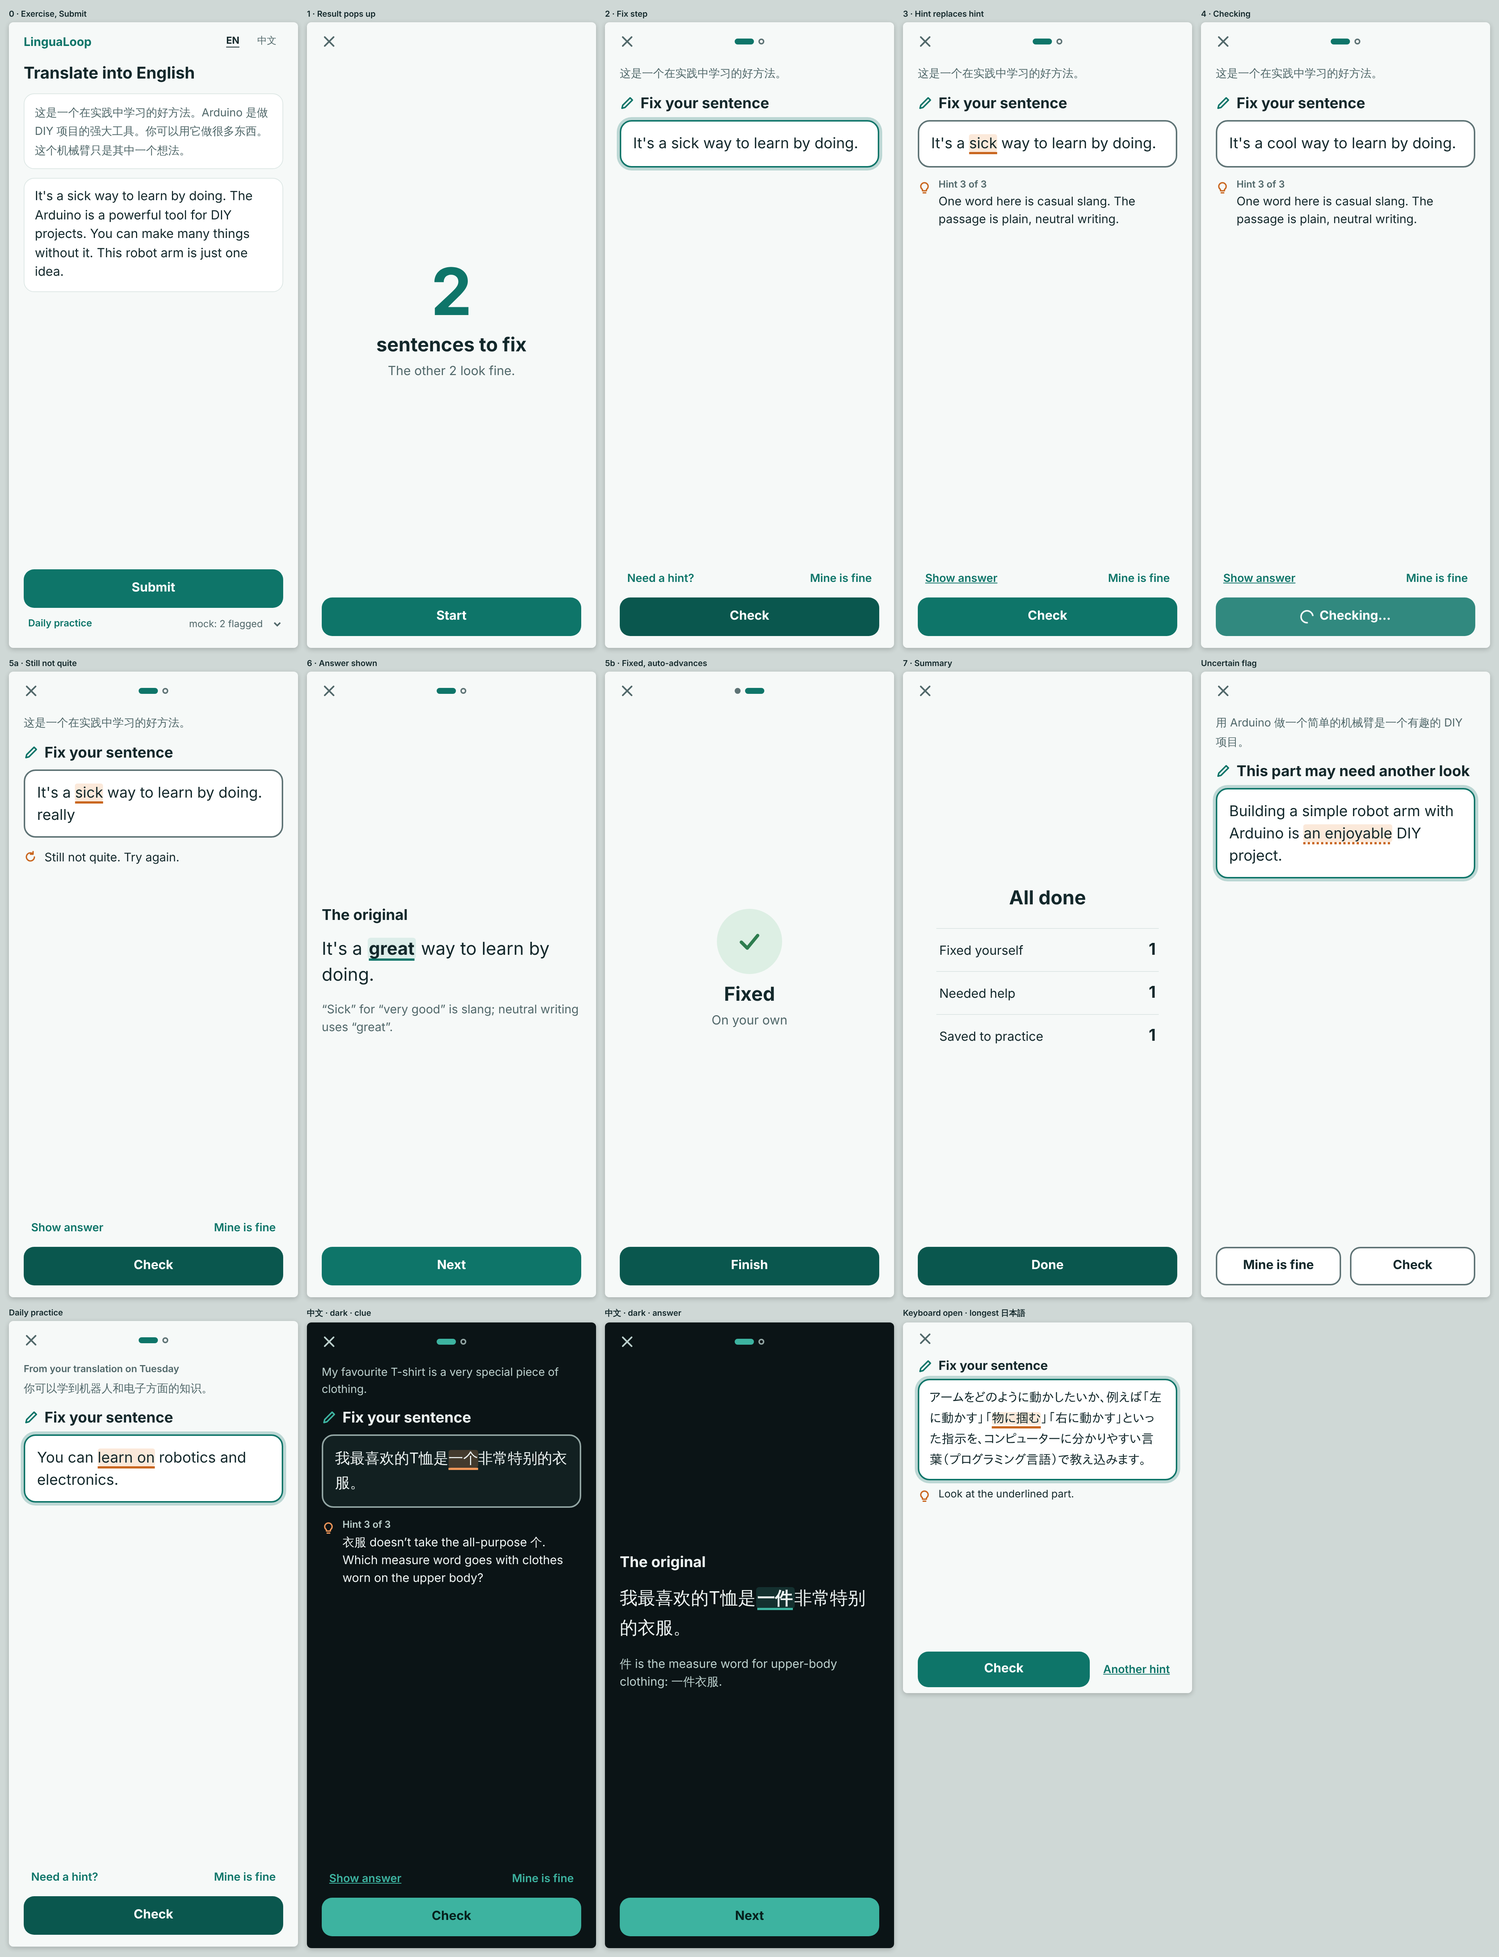
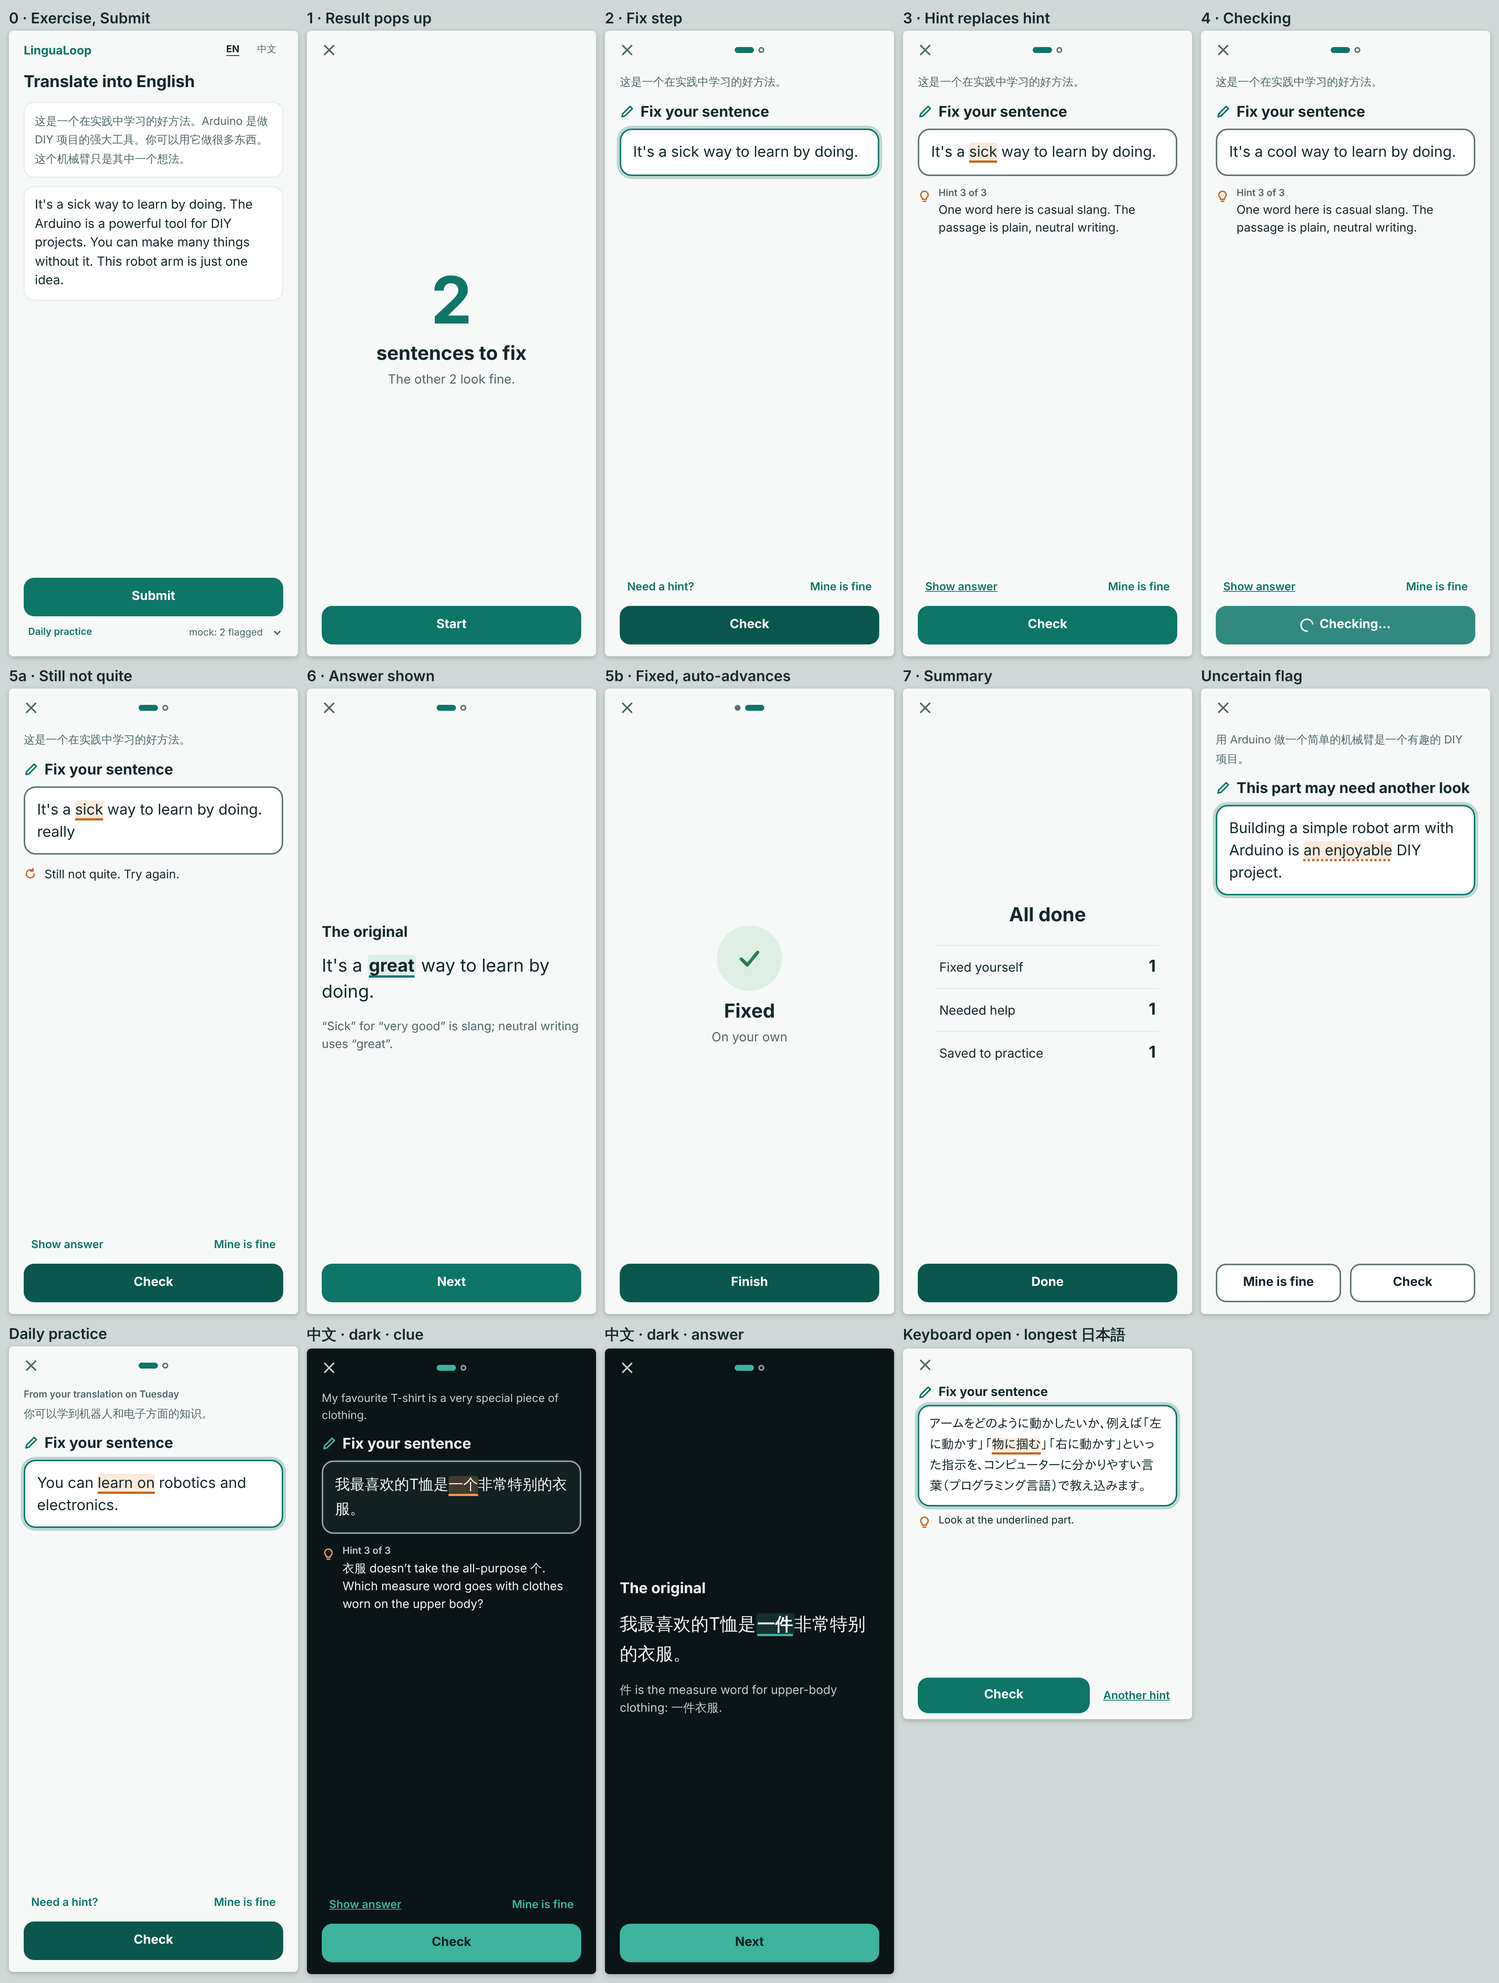
Rebuild DT feedback mockup as app-style one-step-per-screen flow
Claude-Session: https://claude.ai/code/session_01Js56QFCaRqabTK3ofNnuDs

diff --git a/wiki/design/dt-feedback/option-2-guided-self-repair/SPEC.md b/wiki/design/dt-feedback/option-2-guided-self-repair/SPEC.md
@@ -11,16 +11,149 @@ open_questions:
   - "OPEN: Daily-practice intervals, caps and the 'resolved' rule (section 8) are design defaults, not tuned values."
   - "OPEN: Which database size limit applies, and where grading results are stored at all (open since September)."
   - "OPEN: Thresholds (confidence bands, repair cap of 3, attempt cap of 4, credit weights) are design defaults, not tuned values."
+  - "OPEN (Revision 2): zh and ja interface strings for the app-style flow are not written; real-device and keyboard behaviour is untested."
   - "OPEN: Hint templates need writing and native review for ~20 types x 3 L2s x 3 L1s."
 ---
 
 # Option 2 — Guided Self-Repair
 
 One of three competing options for presenting and tracking Dual Translation (DT) feedback.
-Companion files: [`mockup.html`](./mockup.html) (working simulation), `mobile.png`, `desktop.png`
-(revision step), `mobile-daily.png`, `desktop-daily.png` (daily practice).
+Companion files (Revision 2): [`mockup.html`](./mockup.html) (working simulation), `mobile.png` and
+`desktop.png` (contact sheets), `steps/` (one PNG per step, en flow), [`verify.cjs`](./verify.cjs)
+(the no-scroll test). Superseded, kept for reference: `mockup-v1.html`, `mobile-v1.png`,
+`desktop-v1.png`, `mobile-daily-v1.png`, `desktop-daily-v1.png`.
 Context: [[features/dual-translation]], [[decisions/ADR-031-dt-taxonomy-v6-merge]],
 [[evaluations/jev-dt-tuning-2026-09-27]].
+
+## Revision 2 — 2026-11-14 (app-style flow)
+
+**Why.** The owner rejected the first mockup: "the mockup is much too busy - imagine it needs to be
+designed like an app. it just pops up, you get through one part and it opens the next - no scrolling."
+Earlier: "it just needs to be clearer what the input box is." The first mockup put the whole passage
+on one long page (4,152 px tall at 390 px wide for two flagged sentences) with every card, hint bar,
+chip and counter visible at once.
+
+This revision changes the **presentation only**. The ladder, the grader contract, the credit model and
+the daily-practice rules (§1.2 outcomes, §2, §5, §8.1–8.4) are unchanged. Where an older section
+describes layout, it is marked **Superseded by Revision 2**.
+
+### R2.1 Interaction model
+
+1. **It pops up.** After Submit, feedback opens as a modal sheet over the exercise: full screen on a
+   phone, a centred 420 px card on wider screens with the exercise dimmed behind it.
+2. **One step per screen.** Each screen has one sentence, one problem, one input and one primary
+   button. The sheet has three fixed zones: header (close button, progress dots), content, and a
+   bottom action area in thumb reach.
+3. **No scrolling, ever** (acceptance criterion, R2.5).
+4. **It advances by itself.** A successful check shows a short success moment and moves to the next
+   sentence after about 1.6 s; a "Next" button is there for people who do not want to wait, and it is
+   the only way forward when reduced motion is requested.
+5. **Hints replace each other.** There is one hint slot under the field. A new hint, or a "still not
+   quite" message, takes the place of what was there.
+6. Steps change with a short slide and fade (off under `prefers-reduced-motion`).
+
+### R2.2 Steps
+
+| # | Screen | What is on it | Primary action | Quiet actions |
+|---|---|---|---|---|
+| 0 | Exercise (existing page) | Prompt, the learner's translation | Submit (shows "Checking…") | — |
+| 1a | Result | A large number and "sentences to fix"; one line "The other N look fine." | Start | — |
+| 1b | Result, clean | Tick, "No issues found", one line | Done | — |
+| 2 | Fix | The L1 prompt sentence (quiet, two lines at most); the label "Fix your sentence"; the field, pre-filled with the learner's sentence | Check | "Need a hint?", "Mine is fine" |
+| 3 | Fix + hint | Same screen. Hint 1 underlines the grader's span inside the field ("Look at the underlined part."); hint 2 names the type; hint 3 is the clue. Each replaces the last. The quiet button reads "Need a hint?" → "Another hint" → "Show answer". | Check | as above |
+| 4 | Checking | Same screen; the button shows a spinner and "Checking…", the field is read-only, a second press is ignored (1–2 s) | — | — |
+| 5a | Still not quite | Same screen; the slot says "Still not quite. Try again, or take a hint."; the field shakes once. Unchanged text: "That's the same sentence. Change something first." (no grader call) | Check | as above |
+| 5b | Fixed | Tick, "Fixed", one line ("On your own" / "With 2 hints") | Next (auto after ~1.6 s) | — |
+| 6 | Answer | "The original", the original sentence with the differing part marked, one line of explanation. Also used, with a different heading, for "No issue found. The original says:" and after a dispute ("Noted. The original says:"). Reached by "Show answer" or automatically after the 4th failed check (3rd in daily practice). | Next | — |
+| 7 | Summary | "All done" and three counts: Fixed yourself / Needed help / Saved to practice | Done → existing result screen | — |
+
+Progress is a row of dots in the header (the current one is longer, so shape as well as colour
+carries it) with "Sentence 1 of 2" for screen readers. The close button ends the pass and goes to the
+existing result screen; unfinished sentences are recorded as `skipped` and queued per §8.1. This
+replaces the always-visible "Skip — show me everything" link.
+
+**Uncertain flag** (needs a confidence field from the grader, still an open question): the same
+single screen, phrased as a question. The label is "This part may need another look", the span has a
+dotted underline from the start, there is no hint ladder, and the action area holds two buttons of
+equal weight, "Mine is fine" and "Check". "Check" becomes the filled button only after the learner
+changes the text. "Mine is fine" shows "Kept as written" and moves on.
+
+**Daily practice** uses screen 2 unchanged, opened from the practice entry point, one item at a time,
+with one extra line above the prompt: "From your translation on Tuesday". It opens with the span
+already underlined (§8.3), so the first hint asked for is the type. The summary's third count reads
+"Back in practice later".
+
+**The field** (replaces the layout part of §1.2a; the behaviour there still holds). A real `<label>`
+with a pencil icon, "Fix your sentence", sits directly on a large bordered field (2 px border, 20 px
+text, the page's only white surface). It is pre-filled with the learner's sentence. It takes focus
+automatically on pointer devices; on touch devices it waits for a tap so the keyboard does not cover
+the screen before the learner has read it. Focus shows a 4 px ring and a coloured caret. The "where"
+underline is drawn inside the field, under the learner's own words, and disappears once those words
+are edited away. Enter submits; the field holds one sentence and no line breaks. The field stays in
+the upper part of the screen. When the on-screen keyboard is open the screen keeps only the label,
+the field, the hint and one row with "Check" and the hint button.
+
+### R2.3 Removed from v1, and why
+
+| Removed | Why |
+|---|---|
+| The whole passage on one page, clean sentences listed between flagged ones | The cause of the scrolling. Clean sentences are now one line on the result screen. |
+| Demo tab bar inside the screen | Mock controls must not look like product UI. Language and scenario are two small controls on the mock start screen only. |
+| "Take another look" / "Meaning differs" / severity chips, numbered sentence badges, "2 to look at · 2 with nothing flagged" counters | Several competing labels per card. The step label and the result number say the same thing once. |
+| Four-segment "Hints used" bar (Where / What kind / Clue / Answer) | A legend for something the learner does not need to manage. Replaced by "Hint 2 of 3" on the hint itself. |
+| Hints stacking above the field | Pushed the field down and off the screen. One slot, replaced in place. |
+| "Your last checked version" panel above the field, and the instruction paragraph "Your sentence is already in the box…" | The field itself now carries the underline, and the label is enough. |
+| "Check 1 of 4" counter | Pressure without information. The cap still applies. |
+| Then-vs-now comparison and explanation after a self-fix | The success moment is a beat, not a reading task. The explanation is shown when the answer had to be given, and is on the existing result screen for every sentence. |
+| "What gets recorded" disclosure, per-type progress panel, side panel with the full prompt | Developer or secondary content. Recording is specified in §2 and is not shown to the learner here. |
+| Always-visible "Skip — show me everything" | Replaced by the close button. |
+
+Kept deliberately: at most two quiet text buttons, and "Mine is fine" on every fix step, because the
+grader can be wrong (§1.2).
+
+### R2.4 Long sentences
+
+The longest gold sentences were used as test items: en 69 characters (`en_clean_01`), zh 53
+(`zh_seed_14`), ja 82 (`ja_seed_02`).
+
+1. The field grows with its text. If it would not fit, the type steps down 20 → 18 → 16 → 15 px.
+2. Past the smallest step the field scrolls inside itself; the page still does not. No gold sentence
+   reaches this at the tested sizes.
+3. The L1 prompt is clamped to two lines. If it is cut, tapping it opens the full prompt as an
+   overlay on the same screen; tapping again closes it.
+4. The answer screen uses the same type steps (24 → 20 → 17 → 15 px).
+5. With the keyboard open on a short phone the prompt line is hidden, and below 400 px of visible
+   height the label is hidden visually while a hint is showing (it stays available to screen readers).
+
+Hint text is limited by rule: a clue is at most two short sentences (about 120 Latin characters or
+60 CJK characters) and an explanation is one line (about 90 Latin or 45 CJK characters). Templates
+longer than this fail review.
+
+### R2.5 Acceptance criteria for implementation
+
+- **No scroll.** On every step, in every state, `document.scrollingElement.scrollHeight <= window.innerHeight`
+  and there is no horizontal overflow, at 390×844, 375×667 and 1280×800, in light and dark, and with
+  the keyboard open (visible height 500 and 340 px). No element is clipped by, or hidden behind, the
+  bottom action area. `verify.cjs` is the reference test; the implementation needs an equivalent.
+- One primary button per screen (the uncertain step has two neutral ones). At most two quiet actions.
+  At most three text elements above the field.
+- Touch targets at least 44×44 px; WCAG 2.2 AA contrast; the underline, the dot shapes and the icons
+  carry meaning without colour; CJK text uses the CJK font stacks and a line height of 1.65–1.7.
+- No mock or debug control appears inside the flow.
+- Every step event is still recorded (§2.1): hint level reached, each checked revision with its
+  result and latency, time since the previous event, answer shown (asked or automatic), dispute,
+  skip, and the episode outcome with total time. The mockup writes these to `window.__events`.
+
+**Verified in the mockup** (2026-11-14, Chromium via Playwright, `node verify.cjs`): 766 step checks
+passed, 0 failed. They cover en and zh flows (fix first try, all hints then answer, four failed
+checks, no-issue-found, dispute, clean, uncertain, daily practice) and the three longest-sentence
+items, at the three viewports and two keyboard-open sizes, in light and dark.
+
+**Not verified:** real devices and real on-screen keyboards (the keyboard is simulated by a shorter
+viewport); Safari and Firefox; screen readers; contrast was chosen from the app's tokens and not
+measured by a tool; the Japanese and Chinese glyphs in the screenshots come from the test machine's
+fallback font; UI copy is shown in English only, so the length of zh and ja interface strings is
+untested; the mockup's ja item is reachable only by `?stress=ja`.
 
 ## Revision 2026-11-14 (post-experiment)
 
@@ -69,6 +202,8 @@ screen (diff, bands, error cards), which stays as the final step.
 
 ### 1.1 Sequence
 
+> **Superseded by Revision 2 (layout only).** Step 3 is no longer a page of cards: one sentence per screen (R2.2). "Skip — show me everything" is the close button. Triage, cap and scoring are unchanged.
+
 1. **Submit.** The passage is split into aligned sentence pairs. **(rev. 2026-11-14)** The whole
    item goes to the grader in one call, which returns a list of errors; each error names its
    sentence, subtype, severity, a span in the learner's text and a short explanation. A passage
@@ -94,6 +229,8 @@ screen (diff, bands, error cards), which stays as the final step.
    repairs never change the score.
 
 ### 1.2 The ladder
+
+> **Superseded by Revision 2 (layout only).** Hints no longer accumulate and there is no four-segment bar; one hint slot is replaced in place (R2.1, R2.2). Rungs, sources and re-check outcomes are unchanged.
 
 The learner's own sentence is pre-filled in an editable field (§1.2a). They can edit and press
 "Check" at any rung, or take the next hint.
@@ -131,6 +268,8 @@ heavily rephrased text), so the app says "no issue found", never "correct", and 
 original next to it.
 
 ### 1.2a The revision field (rev. 2026-11-14)
+
+> **Superseded by Revision 2 (layout only).** The field's placement and surrounding panels are replaced by R2.2 "The field". Pre-filling, the checking state and the double-submit guard still apply.
 
 **What was unclear in the first mockup** (screenshots at 390 px and 1280 px): the learner's sentence
 appeared twice with nothing saying which copy was which; the editable copy had no label and looked
@@ -195,6 +334,8 @@ re-renders the card, which is not a reliable test of the live region.
 
 ### 1.3 Encoding severity and confidence
 
+> **Superseded by Revision 2 (layout only).** Chips and card colours are removed (R2.3). Severity only orders the steps; low confidence changes the wording of the step (R2.2).
+
 - **(rev. 2026-11-14)** The figures in this section (severity 54–75%, "all 8 meaning inversions")
   are from the September jev run. Severity accuracy for GPT-6 Luna is not in the summary report
   read for this revision; on gold the DeepSeek config flagged 6 of 6 inversions as critical, and it
@@ -238,6 +379,8 @@ Hints only help when there is a rule to reach for. Types are marked `hintable` i
 
 ### 1.5 States
 
+> **Superseded by Revision 2 (layout only).** The states are now the screens in R2.2.
+
 | State | Behaviour |
 |---|---|
 | **Clean item** | Success card: "Nothing flagged. The checker can miss small things, so the original is below if you want to compare." Reference behind one tap. No repair pass. |
@@ -249,6 +392,8 @@ Hints only help when there is a rule to reach for. Types are marked `hintable` i
 | **Adaptive start** | If a type's last 3 episodes all needed rung 1 or more, the card opens at rung 1 with a one-line reason. If the last 3 all ended in `answer_shown`, the type switches to direct mode until a review drill succeeds (§2.4). |
 
 ### 1.6 Copy (learner's L1)
+
+> **Superseded by Revision 2 (layout only).** Chip and skip strings are no longer used. Current strings are in R2.2; zh and ja versions of the new strings are not written yet.
 
 | Key | English | 中文 | 日本語 |
 |---|---|---|---|
@@ -322,7 +467,7 @@ daily-practice queue and the dataset for tuning. **(rev. 2026-11-14)** Fields:
 Whether the learner disputed the flag is the `disputed` event plus `outcome` on the episode.
 Storage budget: §8.5.
 
-The mockup's summary card has a "What gets recorded" disclosure that prints the episode rows live.
+~~The mockup's summary card has a "What gets recorded" disclosure that prints the episode rows live.~~ Superseded by Revision 2: nothing about recording is shown in the flow; the mockup writes the event rows to `window.__events`.
 
 ### 2.2 Per-episode credit
 
@@ -718,7 +863,7 @@ worth keeping.
 
 ## 8. Daily-practice loop: "fix your own sentence" (rev. 2026-11-14)
 
-Shown in the mockup's "Daily practice" tab. All numbers here are design defaults.
+Reached from the "Daily practice" link on the mockup's start screen (Revision 2; was a tab). Screen layout: R2.2. All numbers here are design defaults.
 
 ### 8.1 What gets queued
 
